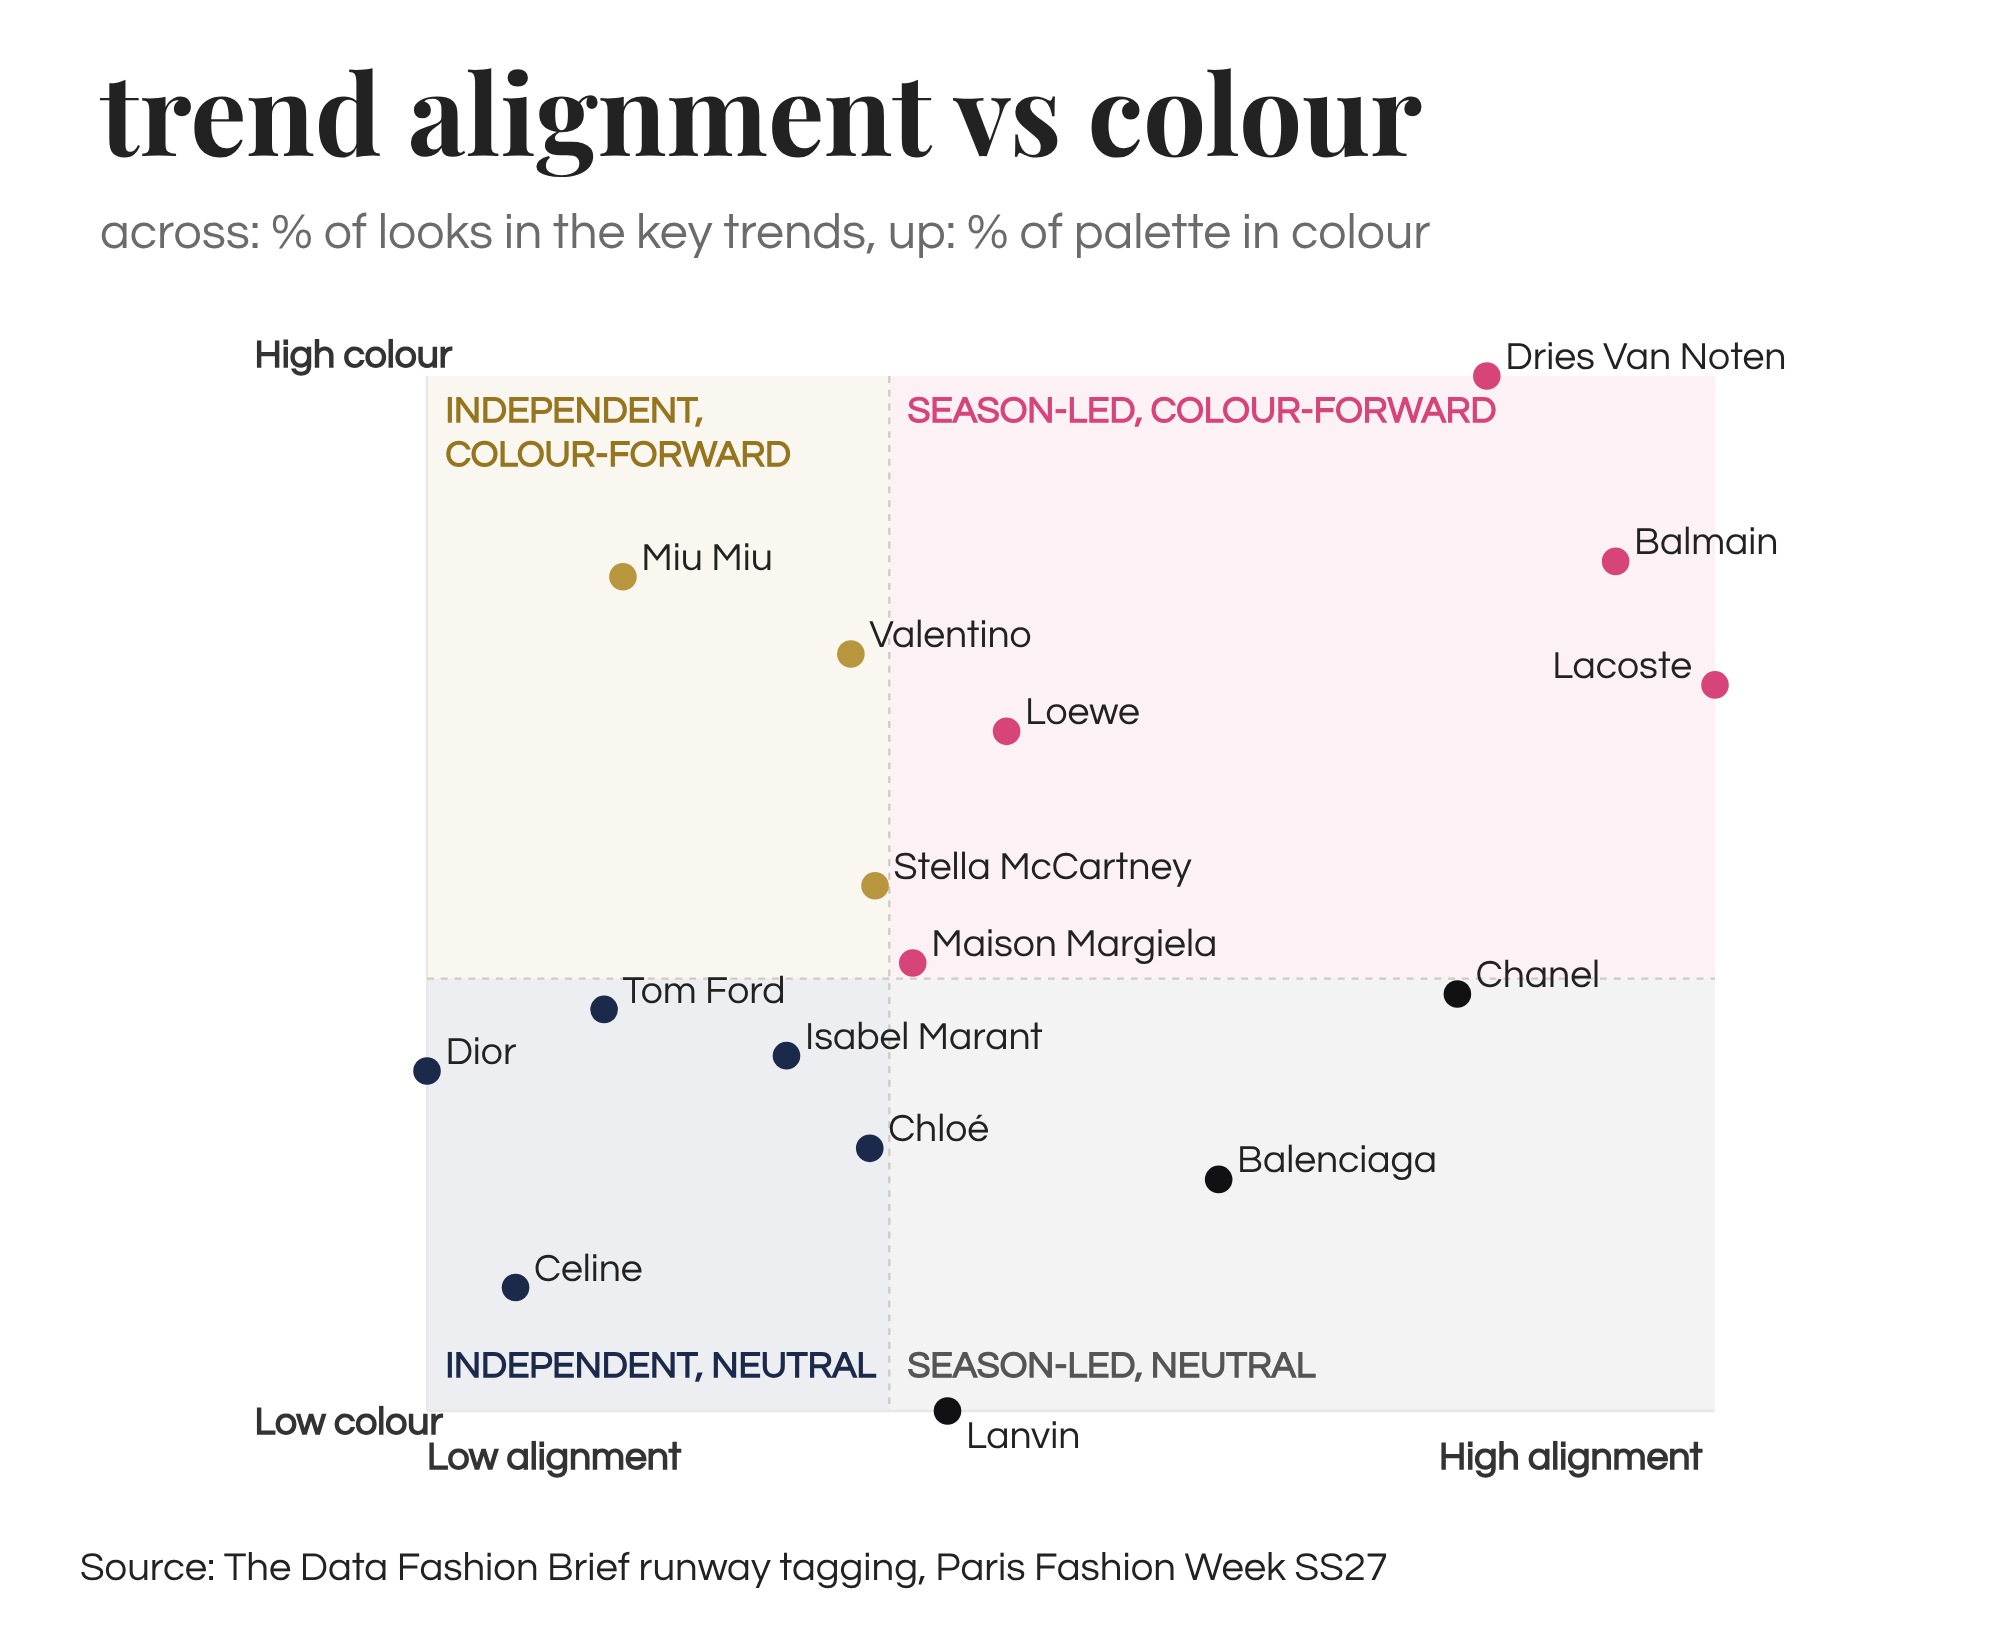
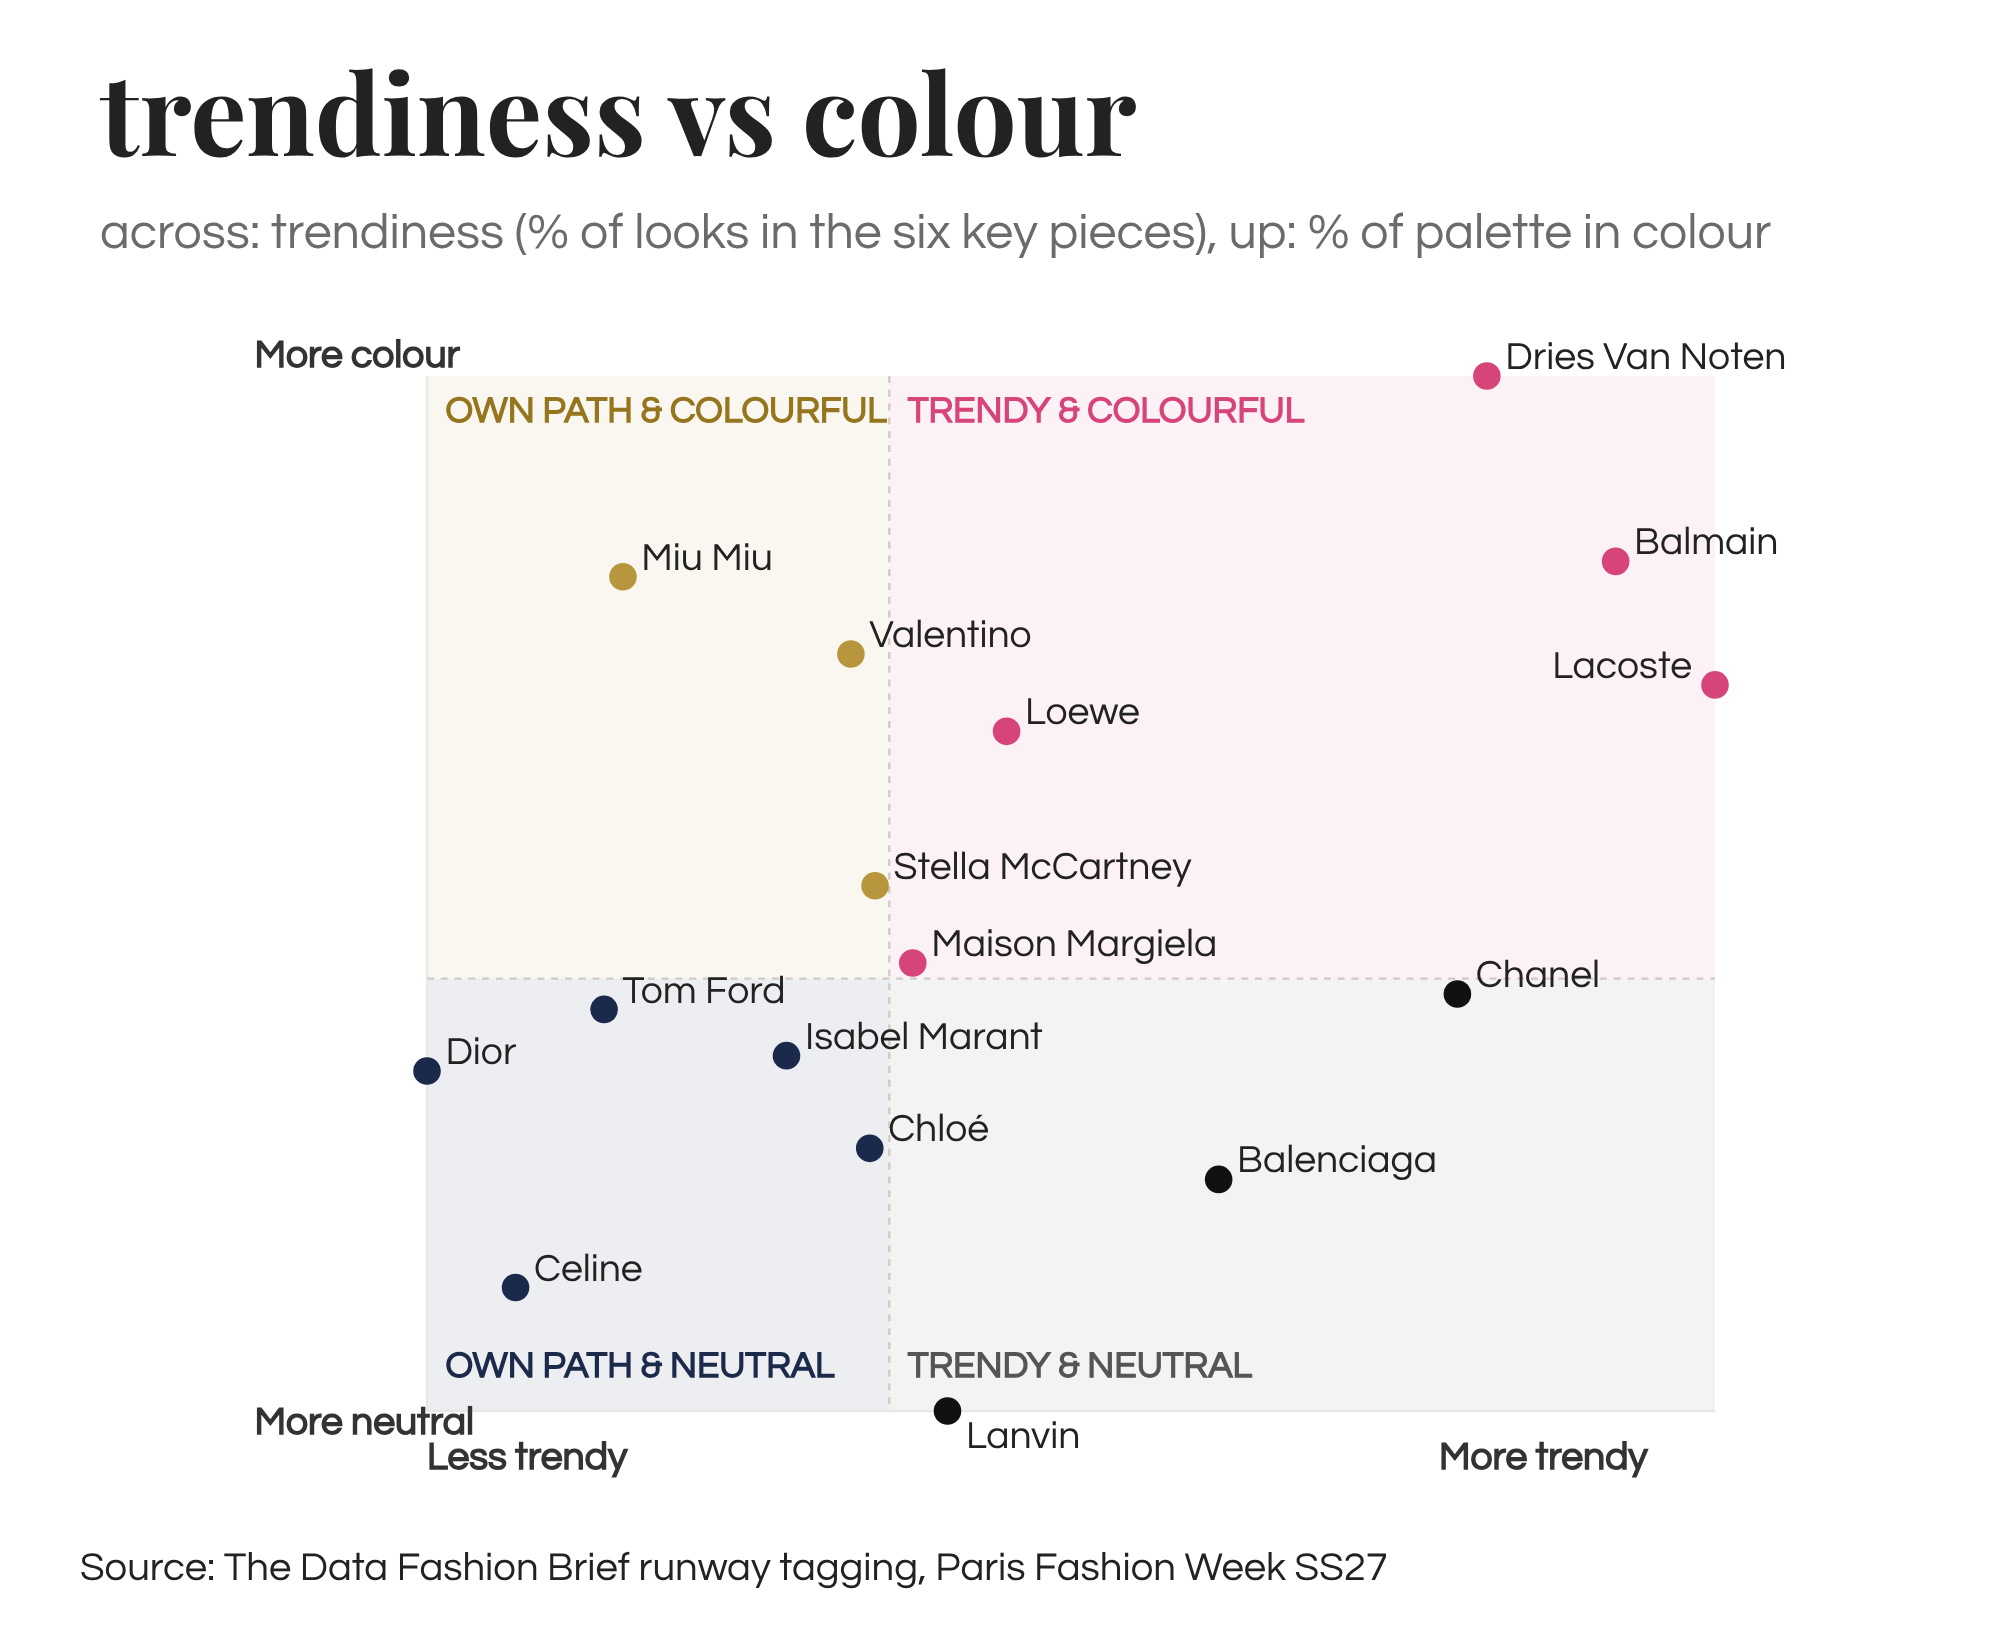
Trend matrix renamed in plain words: trendiness vs colour, quadrant and axis labels, article text to match
Claude-Session: https://claude.ai/code/session_017XtVnXiWHeBZX9E24h61HG

diff --git a/drafts/paris-ss27-charts/build_charts.py b/drafts/paris-ss27-charts/build_charts.py
@@ -213,15 +213,21 @@ svg_m, groups = build_matrix(align, colour, align_thresh=6.3, colour_thresh=st.m
 inner = svg_m.split('>', 1)[1].rsplit('</svg>', 1)[0]
 inner = inner.replace('Century Gothic, sans-serif', "Century Gothic, Questrial, sans-serif")
 import re
-inner = re.sub(r'(<text x="98" y="40"[^>]*>)INDEPENDENT, COLOUR-FORWARD</text>', r'\1<tspan x="98">INDEPENDENT,</tspan><tspan x="98" dy="15">COLOUR-FORWARD</tspan></text>', inner)
-assert 'COLOUR-FORWARD</tspan>' in inner
+for old, new in [('SEASON-LED, COLOUR-FORWARD', 'TRENDY &amp; COLOURFUL'),
+                 ('INDEPENDENT, COLOUR-FORWARD', 'OWN PATH &amp; COLOURFUL'),
+                 ('SEASON-LED, NEUTRAL', 'TRENDY &amp; NEUTRAL'),
+                 ('INDEPENDENT, NEUTRAL', 'OWN PATH &amp; NEUTRAL'),
+                 ('Low alignment', 'Less trendy'), ('High alignment', 'More trendy'),
+                 ('High colour', 'More colour'), ('Low colour', 'More neutral')]:
+    inner = inner.replace('>' + old + '<', '>' + new + '<')
+assert 'OWN PATH &amp; COLOURFUL' in inner
 inner = re.sub(r'font-size="(\d+)"', lambda m: f'font-size="{round(int(m.group(1))*1.3)}"', inner)
 inner = inner.replace('dy="15"', 'dy="19"')
 mh = 820
 msvg = '\n'.join([f'<svg xmlns="http://www.w3.org/2000/svg" viewBox="0 0 {W} {mh}" width="{W}" height="{mh}">',
     f'<rect width="{W}" height="{mh}" fill="#FFFFFF"/>',
-    f'<text x="50" y="78" font-family="{SERIF}" font-weight="700" font-size="56" fill="{INK}">trend alignment vs colour</text>',
-    f'<text x="50" y="124" font-family="{SANS}" font-size="25" fill="{MUTED}">across: % of looks in the key trends, up: % of palette in colour</text>',
+    f'<text x="50" y="78" font-family="{SERIF}" font-weight="700" font-size="56" fill="{INK}">trendiness vs colour</text>',
+    f'<text x="50" y="124" font-family="{SANS}" font-size="25" fill="{MUTED}">across: trendiness (% of looks in the six key pieces), up: % of palette in colour</text>',
     f'<g transform="translate(110,165) scale(1.15)">{inner}</g>',
     f'<text x="40" y="{mh-30}" font-family="{SANS}" font-size="20" fill="{INK}">{html.escape(SRC)}</text>',
     '</svg>'])

diff --git a/drafts/paris-ss27-trend-report-draft.md b/drafts/paris-ss27-trend-report-draft.md
@@ -127,13 +127,13 @@ Green and olive is the other one, the season's biggest actual colour at 8%, whic
 
 Anyway, the full colour breakdown, house by house, is in my [Paris colour post](LINK TO PARIS COLOUR PIECE).
 
-## The trend matrix: classifying houses by trend alignment and colour intensity
+## The trend matrix: who followed the trends, and who went colourful
 
-[CHART: 07-alignment-matrix.png, across: % of looks in the key trends, up: % of palette in colour]
+[CHART: 07-alignment-matrix.png, trendiness vs colour, across: trendiness (% of looks in the six key pieces), up: % of palette in colour]
 
-The matrix classifies each house by how trend-aligned and how colour-intense it was at Paris SS27. Alignment averages a house's own share of the six named pieces this piece found real, pencil skirt, wide-leg trouser, slip dress, trench, bermuda shorts and bomber jacket, into one number, and colour intensity is the share of its palette that isn't neutral. A house near the top built a real chunk of its collection around what the season was doing, a house near the bottom ran a more independent collection.
+This chart puts every house on two scales at once. Going across is trendiness, how much of a house's collection was built from the six pieces this piece found real (the pencil skirt, wide-leg trouser, slip dress, trench, bermuda shorts and bomber jacket), averaged into one number. Going up is colour, the share of its palette that isn't black, white and cream, grey or brown. So a house on the right followed the season's trends closely, a house on the left went its own way, a house at the top went colourful and a house at the bottom stayed neutral, which gives you four groups: trendy and colourful, trendy and neutral, own path and colourful, and own path and neutral.
 
-Lacoste, Balmain and Dries Van Noten score highest on alignment, and all three are colour-forward too, with Loewe and Maison Margiela joining them in that same top corner (Margiela only just, it sits right next to the colour line). Chanel is the interesting case, high alignment almost entirely because of the pencil skirt, but slightly more neutral than the season, with Balenciaga and Lanvin in the same corner. Miu Miu, Valentino and Stella McCartney go the other way, colour-forward but less tied to the season's named pieces. And Dior, Celine, Tom Ford, Isabel Marant and Chloé ran the most independent collections on shape and stayed neutral on colour, which doesn't mean nothing was happening there (Dior put ruffles and chiffon in nearly half its looks each), it just means what was happening wasn't the season's shared story.
+Lacoste, Balmain and Dries Van Noten are the trendiest houses in Paris, and all three are colourful too, with Loewe and Maison Margiela joining them in that trendy and colourful corner (Margiela only just, it sits right next to the colour line). Chanel is the interesting case, trendy almost entirely because of the pencil skirt, but slightly more neutral than the season, with Balenciaga and Lanvin in the same trendy and neutral corner. Miu Miu, Valentino and Stella McCartney went their own way on shape but went colourful. And Dior, Celine, Tom Ford, Isabel Marant and Chloé went their own way on shape and stayed neutral on colour, which doesn't mean nothing was happening there (Dior put ruffles and chiffon in nearly half its looks each), it just means what was happening wasn't the season's shared story.
 
 ## The Takeaway
 
@@ -162,7 +162,7 @@ Colour uses the colour mix method, where each look is split across up to three c
 
 The unexpected pairings compare how often a fabric, detail or colour sits on a specific garment against how often that garment appears overall, so "18 times more than expected" means 18 times its normal share. I only included pairings seen on at least four pieces, because the very small ones are noise.
 
-The alignment score is the simple average of each house's own share of looks for six named pieces, pencil skirt, wide-leg trouser, slip dress, trench coat, bermuda shorts and bomber jacket. Broad categories like finishes and fits are deliberately left out because they sit at much higher natural levels and would drown out the named trends. Colour intensity is 100 minus each house's neutral share. The quadrant lines sit where the houses split in half on each axis, an alignment score just above 6 and a colour intensity of 39%.
+The trendiness score (called the alignment score in earlier drafts) is the simple average of each house's own share of looks for six named pieces, pencil skirt, wide-leg trouser, slip dress, trench coat, bermuda shorts and bomber jacket. Broad categories like finishes and fits are deliberately left out because they sit at much higher natural levels and would drown out the named trends. Colour intensity is 100 minus each house's neutral share. The quadrant lines sit where the houses split in half on each axis, a trendiness score just above 6 and a colour intensity of 39%.
 
 The search validation layer hasn't been run for Paris yet.
 
